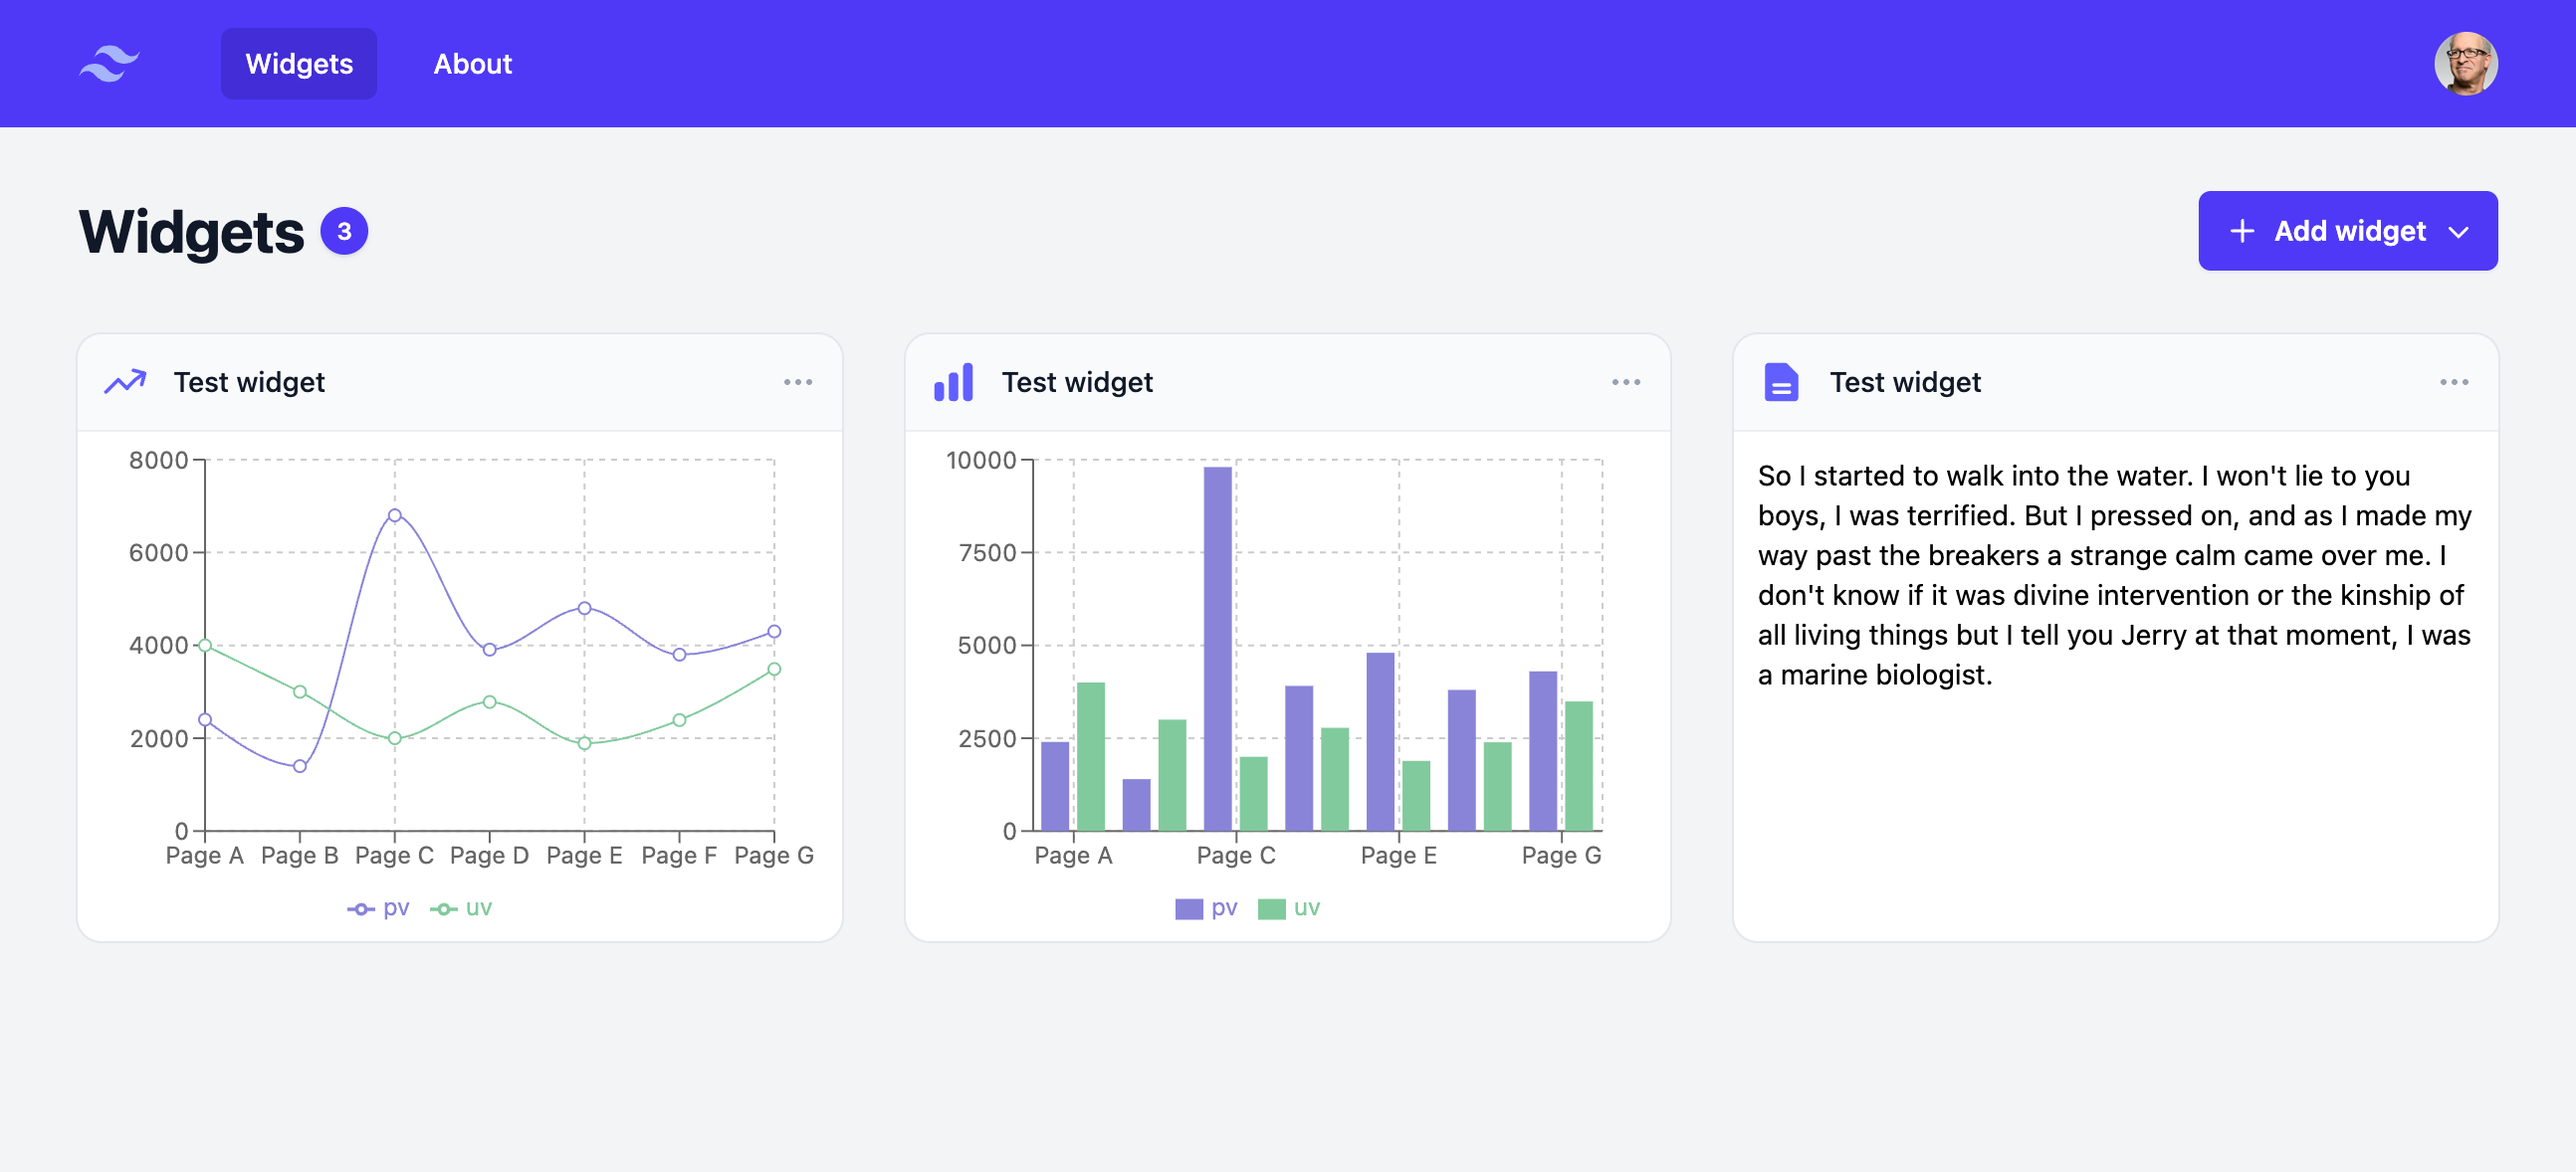
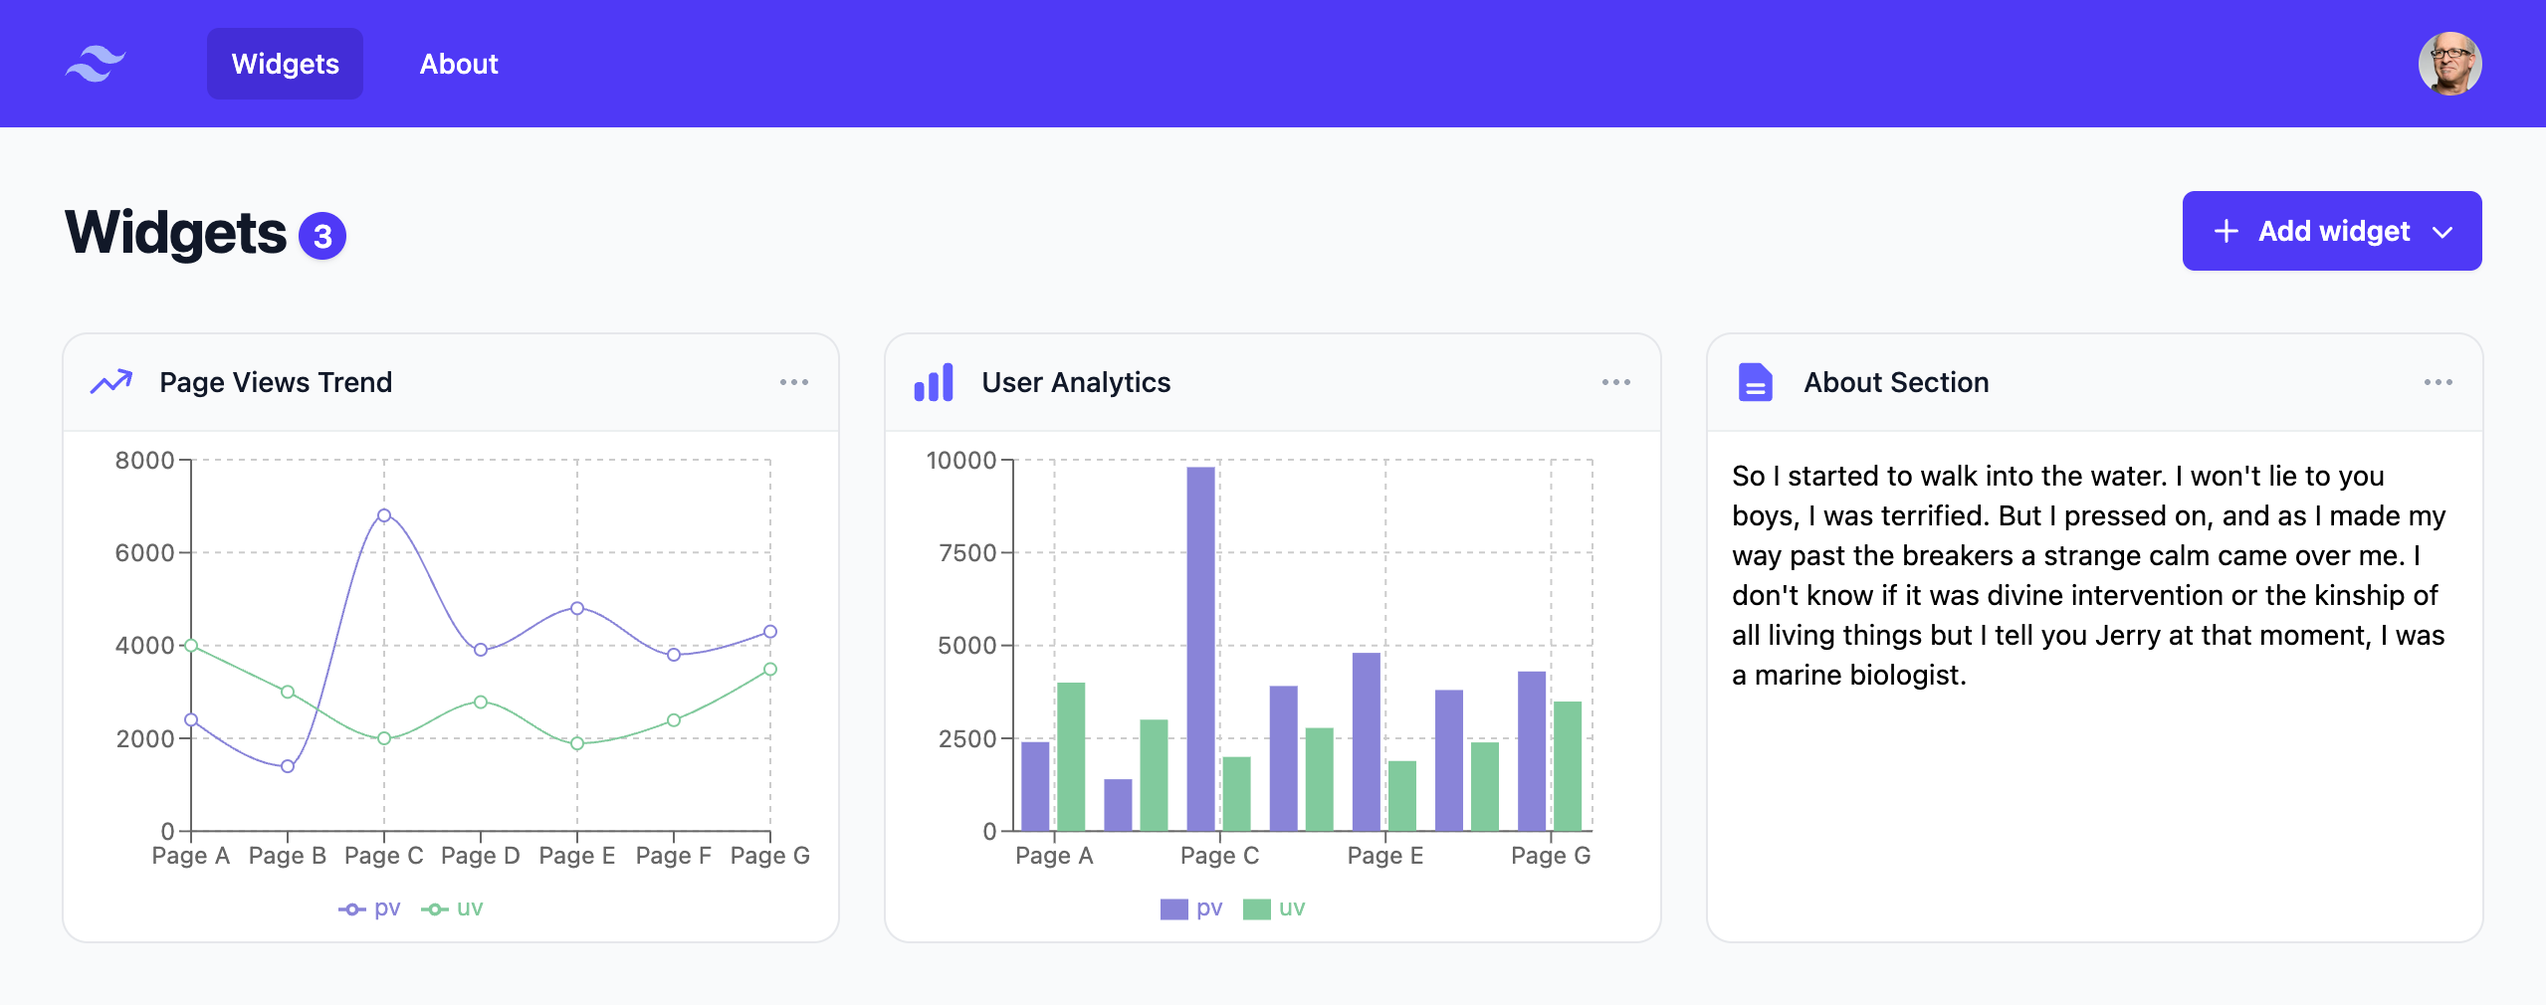
Change bg color, fix nav links and update preview image

diff --git a/src/layouts/DashboardLayout.tsx b/src/layouts/DashboardLayout.tsx
@@ -8,7 +8,7 @@ import {
   MenuItems,
 } from "@headlessui/react";
 import { Bars3Icon, XMarkIcon } from "@heroicons/react/24/outline";
-import { Outlet } from "react-router-dom";
+import { NavLink, Outlet } from "react-router-dom";
 
 import {
   MOCK_USER,
@@ -30,27 +30,29 @@ const DashboardLayout = () => {
               <div className="flex items-center">
                 <div className="shrink-0">
                   <img
-                    alt="Your Company"
-                    src="https://tailwindcss.com/plus-assets/img/logos/mark.svg?color=indigo&shade=300"
-                    className="size-8"
+                    alt="YouWiget"
+                    src="/logo-white.png"
+                    className="h-8 w-auto"
                   />
                 </div>
                 <div className="hidden md:block">
                   <div className="ml-10 flex items-baseline space-x-4">
                     {NAVIGATION_ITEMS.map((item) => (
-                      <a
+                      <NavLink
                         key={item.name}
-                        href={item.href}
+                        to={item.href}
                         aria-current={item.current ? "page" : undefined}
-                        className={classNames(
-                          item.current
-                            ? "bg-indigo-700 text-white"
-                            : "text-white hover:bg-indigo-500/75",
-                          "rounded-md px-3 py-2 text-sm font-medium",
-                        )}
+                        className={({ isActive }) =>
+                          classNames(
+                            isActive
+                              ? "bg-indigo-700 text-white"
+                              : "text-white hover:bg-indigo-500/75",
+                            "rounded-md px-3 py-2 text-sm font-medium",
+                          )
+                        }
                       >
                         {item.name}
-                      </a>
+                      </NavLink>
                     ))}
                   </div>
                 </div>

diff --git a/index.html b/index.html
@@ -1,5 +1,5 @@
 <!doctype html>
-<html lang="en" class="h-full bg-gray-100">
+<html lang="en" class="h-full bg-gray-50">
   <head>
     <meta charset="UTF-8" />
     <link rel="icon" type="image/svg+xml" href="/yw.svg" />
